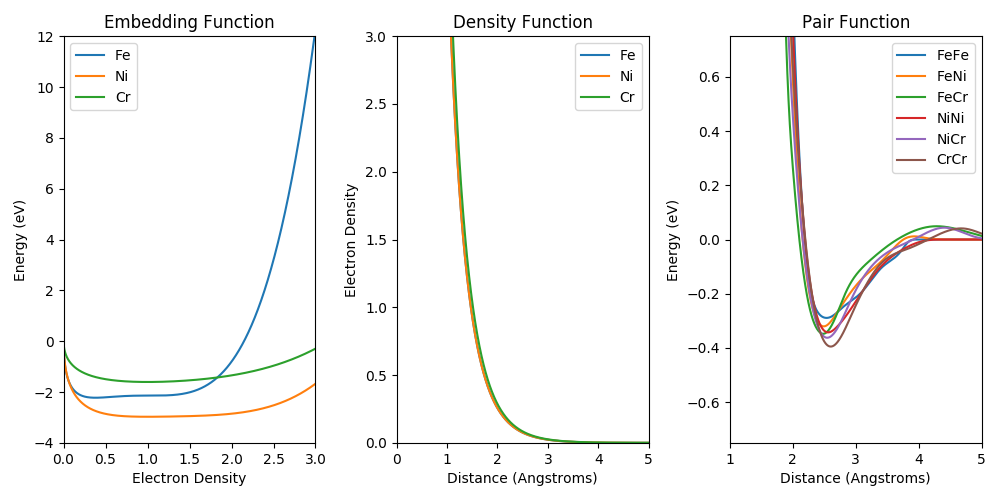
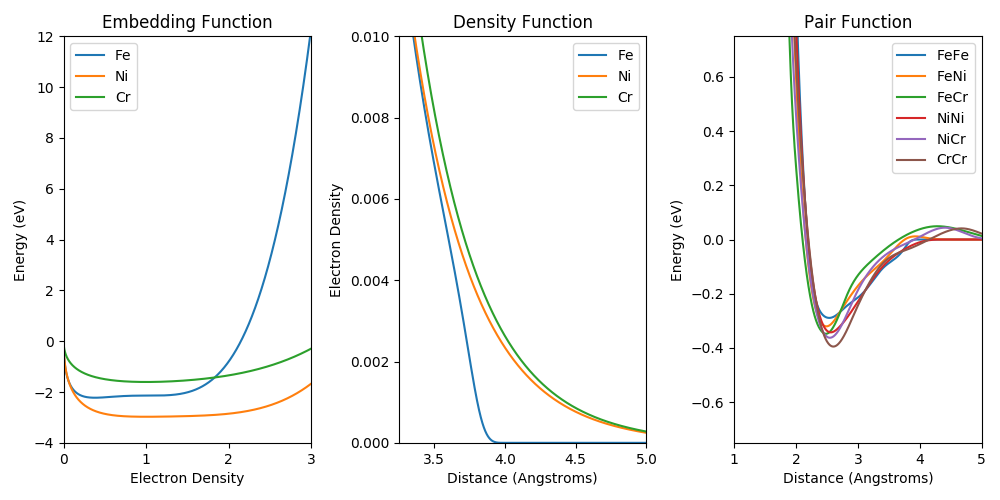
modified setfl example and added vector stuff

diff --git a/cmstk/units/vector.py b/cmstk/units/vector.py
@@ -1,4 +1,5 @@
 from cmstk.units.base import BaseUnit
+import math
 
 
 class Vector(object):
@@ -28,21 +29,35 @@ class Vector(object):
         self._values = values
 
     # TODO: vector operations
-    def rotate(self, rotation):
-        pass
-
-    def translate(self, translation):
-        pass
-
     def cross(self, vec):
-        pass
-    
+        if not isinstance(vec, Vector):
+            raise TypeError("`vec` must be an instance of type Vector")
+        raise NotImplementedError
+        
     def dot(self, vec):
-        pass
+        if not isinstance(vec, Vector):
+            raise TypeError("`vec` must be an instance of type Vector")
+        raise NotImplementedError
 
-    @property
-    def magnitude(self):
-        pass
+    def magnitude(self, t):
+        """Return the magnitude in terms of type t.
+        
+        Args:
+            t (type): Type to return the magnitude as.
+            - must be a subclass of self.unit_kind
+        
+        Returns:
+            instance of type(t)
+        """
+        if not issubclass(t, self.unit_kind):
+            raise TypeError("`t` must be a subclass of {}".format(self.unit_kind))
+
+        summation = t(0.0)
+        for v in self._values:
+            summation += v.to(t)
+        root = math.sqrt(summation.value)
+        square = root**2
+        return t(square)
 
     def __iter__(self):
         return self._values.__iter__()

diff --git a/cmstk/units/test_vector.py b/cmstk/units/test_vector.py
@@ -1,6 +1,7 @@
 from cmstk.units.vector import Vector, Vector2D, Vector3D
 from cmstk.units.distance import Angstrom, Nanometer
 from cmstk.units.angle import AngleUnit, Radian, Degree
+from cmstk.units.test_testing_resources import within_one_percent
 import pytest
 
 
@@ -13,6 +14,17 @@ def test_init_vector():
     with pytest.raises(ValueError):
         values = (Radian(value), Radian(value), Angstrom(value))
         v = Vector(values)
+
+def test_vector_magnitude():
+    # tests proper behavior of magnitude()
+    value = 1.0
+    values = (Angstrom(value), Angstrom(value), Angstrom(value))
+    v = Vector(values)
+    mag = v.magnitude(Nanometer)
+    assert type(mag) is Nanometer
+    assert within_one_percent(0.3, mag.value)
+    with pytest.raises(TypeError):
+        mag = v.magnitude(Radian)
 
 def test_vector_iter():
     # tests proper behavior of __iter__()

diff --git a/cmstk/lattice/base.py b/cmstk/lattice/base.py
@@ -199,6 +199,7 @@ class Lattice(object):
         for d in dims:
             if type(d) is not int:
                 raise TypeError("all members of `dims` must be of type int")
+        raise NotImplementedError
 
     def rotate(self, angles):
         """Rotate the lattice in 3 dimensions.
@@ -210,6 +211,7 @@ class Lattice(object):
             raise TypeError("`angles` must be of type Vector3D")
         if angles.unit_kind is not AngleUnit:
             raise TypeError("`angles` must contain units of kind AngleUnits")
+        raise NotImplementedError
 
     def translate(self, dims):
         """Translate the lattice in 3 dimensions.

diff --git a/examples/plot_setfl_profile.py b/examples/plot_setfl_profile.py
@@ -64,8 +64,8 @@ if __name__ == "__main__":
     # use custom viewport
     custom = {"embedding_xlim": (0.0, 3.0),
               "embedding_ylim": (-4.0, 12.0),
-              "density_xlim": (0.0, 5.0),
-              "density_ylim": (0.0, 3.0),
+              "density_xlim": (3.25, 5.0),
+              "density_ylim": (0.0, 0.01),
               "pair_xlim": (1.0, 5.0),
               "pair_ylim": (-0.75, 0.75)}
     filename = os.path.join("potentials", "Bonny-Fe-Ni-Cr-2011.eam.alloy")

diff --git a/cmstk/units/base.py b/cmstk/units/base.py
@@ -35,6 +35,13 @@ class BaseUnit(object):
 #        new_value = t.convert_inverse(self.value)
 #        return t(new_value)
 
+#    def to_base(self):
+#        """Converts units to their base unit.
+#        
+#        Returns:
+#            instance of base unit of self.kind
+#        """
+
     def add(self, other):
         """Returns the sum in terms of the self unit.
         
